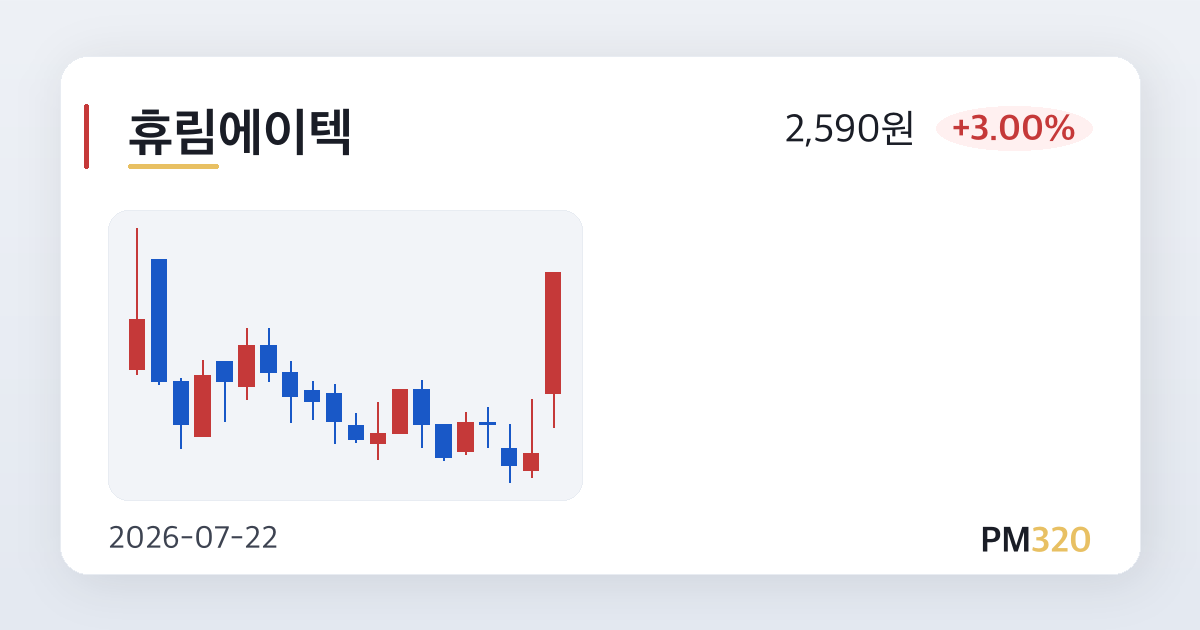
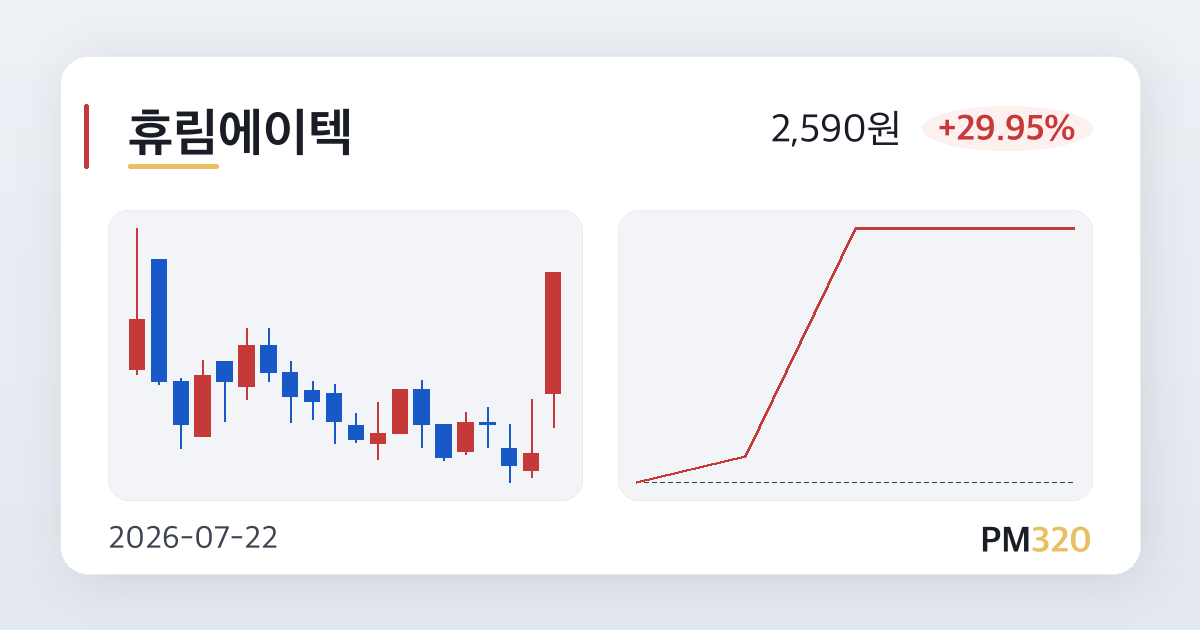
chore(kiwoom): 2026-07-22T09:35 condition search update

diff --git a/pm320/2026-07-22/065420.html b/pm320/2026-07-22/065420.html
@@ -5,13 +5,13 @@
 <title>에스아이리소스</title>
 <meta property="og:title" content="에스아이리소스">
 <meta property="og:description" content="기타 화학제품 제조업 · 오늘의 주목 종목">
-<meta property="og:image" content="https://pm320.100m1s.com/og/pm320/2026-07-22/065420.png?v=1784679702">
+<meta property="og:image" content="https://pm320.100m1s.com/og/pm320/2026-07-22/065420.png?v=1784680312">
 <meta property="og:image:width" content="1200">
 <meta property="og:image:height" content="630">
 <meta property="og:url" content="https://pm320.100m1s.com/pm320/2026-07-22/065420.html">
 <meta property="og:type" content="article">
 <meta name="twitter:card" content="summary_large_image">
-<meta name="twitter:image" content="https://pm320.100m1s.com/og/pm320/2026-07-22/065420.png?v=1784679702">
+<meta name="twitter:image" content="https://pm320.100m1s.com/og/pm320/2026-07-22/065420.png?v=1784680312">
 <meta name="robots" content="index, follow">
 <script>
 (function() {

diff --git a/pm320/2026-07-22/066430.html b/pm320/2026-07-22/066430.html
@@ -5,13 +5,13 @@
 <title>아이로보틱스</title>
 <meta property="og:title" content="아이로보틱스">
 <meta property="og:description" content="기타 전문 도매업 · 오늘의 주목 종목">
-<meta property="og:image" content="https://pm320.100m1s.com/og/pm320/2026-07-22/066430.png?v=1784679702">
+<meta property="og:image" content="https://pm320.100m1s.com/og/pm320/2026-07-22/066430.png?v=1784680311">
 <meta property="og:image:width" content="1200">
 <meta property="og:image:height" content="630">
 <meta property="og:url" content="https://pm320.100m1s.com/pm320/2026-07-22/066430.html">
 <meta property="og:type" content="article">
 <meta name="twitter:card" content="summary_large_image">
-<meta name="twitter:image" content="https://pm320.100m1s.com/og/pm320/2026-07-22/066430.png?v=1784679702">
+<meta name="twitter:image" content="https://pm320.100m1s.com/og/pm320/2026-07-22/066430.png?v=1784680311">
 <meta name="robots" content="index, follow">
 <script>
 (function() {

diff --git a/pm320/2026-07-22/078590.html b/pm320/2026-07-22/078590.html
@@ -5,13 +5,13 @@
 <title>휴림에이텍</title>
 <meta property="og:title" content="휴림에이텍">
 <meta property="og:description" content="자동차 신품 부품 제조업 · 오늘의 주목 종목">
-<meta property="og:image" content="https://pm320.100m1s.com/og/pm320/2026-07-22/078590.png?v=1784679702">
+<meta property="og:image" content="https://pm320.100m1s.com/og/pm320/2026-07-22/078590.png?v=1784680312">
 <meta property="og:image:width" content="1200">
 <meta property="og:image:height" content="630">
 <meta property="og:url" content="https://pm320.100m1s.com/pm320/2026-07-22/078590.html">
 <meta property="og:type" content="article">
 <meta name="twitter:card" content="summary_large_image">
-<meta name="twitter:image" content="https://pm320.100m1s.com/og/pm320/2026-07-22/078590.png?v=1784679702">
+<meta name="twitter:image" content="https://pm320.100m1s.com/og/pm320/2026-07-22/078590.png?v=1784680312">
 <meta name="robots" content="index, follow">
 <script>
 (function() {

diff --git a/pm320/2026-07-22/439960.html b/pm320/2026-07-22/439960.html
@@ -5,13 +5,13 @@
 <title>코스모로보틱스</title>
 <meta property="og:title" content="코스모로보틱스">
 <meta property="og:description" content="의료용 기기 제조업 · 오늘의 주목 종목">
-<meta property="og:image" content="https://pm320.100m1s.com/og/pm320/2026-07-22/439960.png?v=1784679702">
+<meta property="og:image" content="https://pm320.100m1s.com/og/pm320/2026-07-22/439960.png?v=1784680311">
 <meta property="og:image:width" content="1200">
 <meta property="og:image:height" content="630">
 <meta property="og:url" content="https://pm320.100m1s.com/pm320/2026-07-22/439960.html">
 <meta property="og:type" content="article">
 <meta name="twitter:card" content="summary_large_image">
-<meta name="twitter:image" content="https://pm320.100m1s.com/og/pm320/2026-07-22/439960.png?v=1784679702">
+<meta name="twitter:image" content="https://pm320.100m1s.com/og/pm320/2026-07-22/439960.png?v=1784680311">
 <meta name="robots" content="index, follow">
 <script>
 (function() {